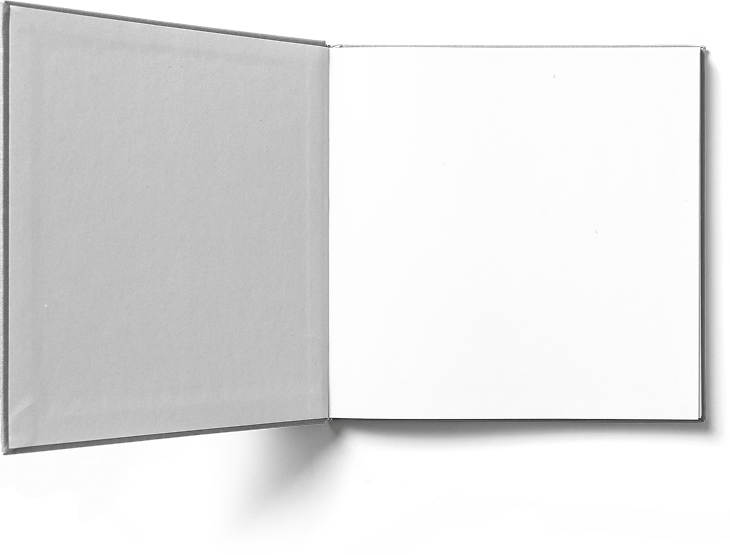
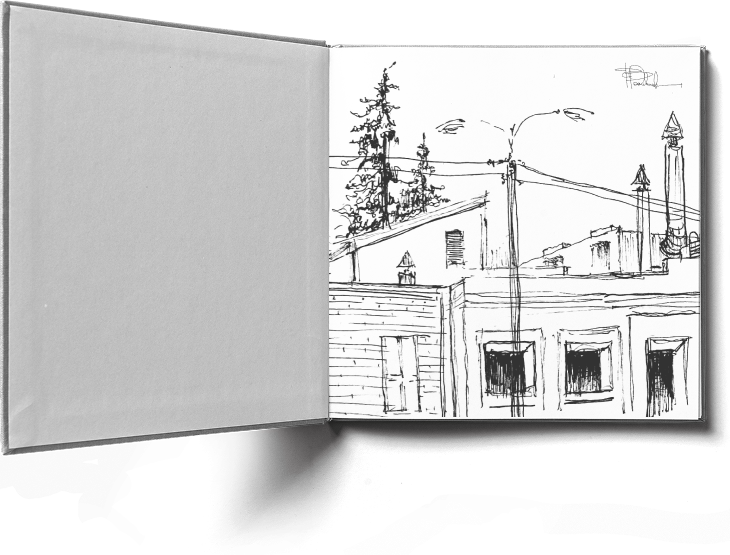
Added non-final mobile layout

diff --git a/public/index.html b/public/index.html
@@ -2,21 +2,24 @@
 <html lang="en">
     <head>
         <meta charset="UTF-8" />
-        <meta name="viewport" content="width=device-width, initial-scale=1.0" />
+        <meta name="viewport" content="width=device-width, initial-scale=1.0, minimum-scale=1.0, maximum-scale=1.0" />
 
         <title>Document</title>
+
+        <!-- Link Swiper's CSS -->
+        <link rel="stylesheet" href="https://cdn.jsdelivr.net/npm/swiper@12/swiper-bundle.min.css" />
 
         <link rel="stylesheet" href="./css/main.css" />
     </head>
 
     <body class="grid grid-rows-[auto_1fr_auto] min-h-screen">
         <header id="Header">
-            <div class="logo-wrapper flex items-center justify-center py-10.5">
+            <section id="Logo" class="logo-wrapper flex items-center justify-center py-10.5">
                 <a href="#!">
-                    <img src="./assets/images/icons/logo.svg" alt="Logo icon" />
+                    <img src="./assets/images/icons/logo_dark.svg" alt="Logo dark icon" />
                 </a>
-            </div>
-            <div class="wrapper border-y border-y-[#DDDDDD]">
+            </section>
+            <section id="Menu" class="wrapper border-y border-y-[#DDDDDD]">
                 <menu class="grid grid-cols-[1fr_auto_auto] gap-x-30 py-15 items-center">
                     <a href="#!">
                         <img src="./assets/images/icons/hamburger_menu.svg" alt="" />
@@ -28,7 +31,7 @@
                         <img src="./assets/images/icons/login.svg" alt="" />
                     </a>
                 </menu>
-            </div>
+            </section>
         </header>
 
         <div id="Page-Content">
@@ -155,12 +158,94 @@
                     </div>
                 </div>
             </section>
+            <section id="Partners" class="bg-[#ebebeb]">
+                <div class="wrapper py-60">
+                    <!-- <div class="max-w-xs flex flex-nowrap gap-x-30">
+                        <div class="w-150 h-80 shrink-0 flex items-center justify-center border border-[#C4C4C4]">
+                            <img src="./assets/images/icons/hahnemuehle.svg" alt="Hahnemuehle logo" class="w-[76.67%]" />
+                        </div>
+                        <div class="w-150 h-80 shrink-0 flex items-center justify-center border border-[#C4C4C4]">
+                            <img src="./assets/images/icons/canson.svg" alt="Canson logo" class="w-[76.67%]" />
+                        </div>
+                        <div class="w-150 h-80 shrink-0 flex items-center justify-center border border-[#C4C4C4]">
+                            <img src="./assets/images/icons/royal_talens.svg" alt="Royal Talents logo" class="w-[76.67%]" />
+                        </div>
+                        <div class="w-150 h-80 shrink-0 flex items-center justify-center border border-[#C4C4C4]">
+                            <img src="./assets/images/icons/fabriano.svg" alt="Fabriano logo" class="w-[76.67%]" />
+                        </div>
+                    </div> -->
+                    <div class="swiper mySwiper min-w-0 max-w-360 h-80">
+                        <div class="swiper-wrapper">
+                            <div class="swiper-slide">
+                                <div class="flex justify-center items-center w-full h-full border border-[#C4C4C4]">
+                                    <img src="./assets/images/icons/hahnemuehle.svg" alt="Hahnemuehle logo" class="w-[76.67%]" />
+                                </div>
+                            </div>
+                            <div class="swiper-slide">
+                                <div class="flex justify-center items-center w-full h-full border border-[#C4C4C4]">
+                                    <img src="./assets/images/icons/canson.svg" alt="Canson logo" class="w-[76.67%]" />
+                                </div>
+                            </div>
+                            <div class="swiper-slide">
+                                <div class="flex justify-center items-center w-full h-full border border-[#C4C4C4]">
+                                    <img src="./assets/images/icons/royal_talens.svg" alt="Royal Talents logo" class="w-[76.67%]" />
+                                </div>
+                            </div>
+                            <div class="swiper-slide">
+                                <div class="flex justify-center items-center w-full h-full border border-[#C4C4C4]">
+                                    <img src="./assets/images/icons/fabriano.svg" alt="Fabriano logo" class="w-[76.67%]" />
+                                </div>
+                            </div>
+                        </div>
+                    </div>
+                </div>
+            </section>
+            <section id="SketchBook">
+                <div class="wrapper py-60">
+                    <img src="./assets/images/sketchbook.png" alt="SketchBook" />
+                    <div class="flex flex-col gap-y-20 pb-30">
+                        <h2 class="section-header text-2xl/none text-[#666666] tracking-normal font-[Roboto]">Simple скетчбук</h2>
+                        <p class="text-base/[170%] text-[#85859B] tracking-normal font-[Roboto]"
+                            >80 листов, твердая обложка, бумага Fabriano 200 г/м2. Подойдет и для графики и для акварели. Для самых смелых творческих
+                            замыслов!</p
+                        >
+                    </div>
+                    <a
+                        class="block max-w-min px-38 py-14.5 border border-[#7875FE] text-[#7875FE] text-lg font-[Roboto] tracking-normal leading-none"
+                        href="#!"
+                    >
+                        Каталог
+                    </a>
+                </div>
+            </section>
         </div>
 
-        <footer id="Footer" class="bg-amber-100">
-            <div class="wrapper"> Footer </div>
+        <footer id="Footer">
+            <section id="Social" class="bg-[#4C5866]">
+                <div class="wrapper py-20 flex flex-col gap-y-20 items-center">
+                    <a href="#!" class="text-white"> <img class="inline" src="./assets/images/icons/logo.svg" alt="Logo icon" /> </a>
+                    <hr class="w-full h-1 text-[#DDDDDD] opacity-20" />
+                    <div class="flex gap-x-32">
+                        <a href="#!"><img src="./assets/images/icons/facebook.svg" alt="Facebook" /></a>
+                        <a href="#!"><img src="./assets/images/icons/twitter.svg" alt="Twitter" /></a>
+                        <a href="#!"><img src="./assets/images/icons/instagram.svg" alt="Instagram" /></a>
+                        <a href="#!"><img src="./assets/images/icons/youtube.svg" alt="YouTube" /></a>
+                    </div>
+                </div>
+            </section>
+            <section id="Copyright" class="bg-[#EBEBEB]">
+                <div class="wrapper py-3 flex justify-center">
+                    <a href="#!">
+                        <img src="./assets/images/icons/copyright.svg" alt="Copyright icon" />
+                    </a>
+                </div>
+            </section>
         </footer>
 
+        <!-- Swiper JS -->
+        <script src="https://cdn.jsdelivr.net/npm/swiper@12/swiper-bundle.min.js"></script>
+
+        <!-- Main JS --->
         <script src="./js/main.js"></script>
     </body>
 </html>

diff --git a/public/css/main.css b/public/css/main.css
@@ -9,9 +9,10 @@
     --font-mono: ui-monospace, SFMono-Regular, Menlo, Monaco, Consolas, "Liberation Mono",
       "Courier New", monospace;
     --color-amber-100: oklch(96.2% 0.059 95.617);
+    --color-amber-200: oklch(92.4% 0.12 95.746);
+    --color-white: #fff;
     --spacing: 1px;
-    --text-xs: 0.75rem;
-    --text-xs--line-height: calc(1 / 0.75);
+    --container-xs: 20rem;
     --text-sm: 0.875rem;
     --text-sm--line-height: calc(1.25 / 0.875);
     --text-base: 1rem;
@@ -194,17 +195,47 @@
   .grid {
     display: grid;
   }
-  .inline-block {
-    display: inline-block;
+  .inline {
+    display: inline;
   }
   .table {
     display: table;
   }
+  .aspect-29\/18 {
+    aspect-ratio: 29/18;
+  }
   .aspect-290\/180 {
     aspect-ratio: 290/180;
   }
+  .h-1 {
+    height: calc(var(--spacing) * 1);
+  }
+  .h-80 {
+    height: calc(var(--spacing) * 80);
+  }
+  .h-auto {
+    height: auto;
+  }
+  .h-full {
+    height: 100%;
+  }
   .min-h-screen {
     min-height: 100vh;
+  }
+  .w-150 {
+    width: calc(var(--spacing) * 150);
+  }
+  .w-180 {
+    width: calc(var(--spacing) * 180);
+  }
+  .w-360 {
+    width: calc(var(--spacing) * 360);
+  }
+  .w-\[76\.67\%\] {
+    width: 76.67%;
+  }
+  .w-fit {
+    width: fit-content;
   }
   .w-full {
     width: 100%;
@@ -212,8 +243,32 @@
   .max-w-220 {
     max-width: calc(var(--spacing) * 220);
   }
+  .max-w-360 {
+    max-width: calc(var(--spacing) * 360);
+  }
+  .max-w-full {
+    max-width: 100%;
+  }
   .max-w-min {
     max-width: min-content;
+  }
+  .max-w-none {
+    max-width: none;
+  }
+  .max-w-xs {
+    max-width: var(--container-xs);
+  }
+  .min-w-0 {
+    min-width: calc(var(--spacing) * 0);
+  }
+  .min-w-\[0\%\] {
+    min-width: 0%;
+  }
+  .flex-shrink {
+    flex-shrink: 1;
+  }
+  .shrink-0 {
+    flex-shrink: 0;
   }
   .border-collapse {
     border-collapse: collapse;
@@ -236,8 +291,11 @@
   .flex-col {
     flex-direction: column;
   }
-  .items-baseline {
-    align-items: baseline;
+  .flex-nowrap {
+    flex-wrap: nowrap;
+  }
+  .flex-wrap {
+    flex-wrap: wrap;
   }
   .items-center {
     align-items: center;
@@ -256,6 +314,9 @@
   }
   .gap-x-30 {
     column-gap: calc(var(--spacing) * 30);
+  }
+  .gap-x-32 {
+    column-gap: calc(var(--spacing) * 32);
   }
   .gap-y-4 {
     row-gap: calc(var(--spacing) * 4);
@@ -278,6 +339,12 @@
   .gap-y-60 {
     row-gap: calc(var(--spacing) * 60);
   }
+  .overflow-hidden {
+    overflow: hidden;
+  }
+  .overflow-x-hidden {
+    overflow-x: hidden;
+  }
   .border {
     border-style: var(--tw-border-style);
     border-width: 1px;
@@ -293,11 +360,29 @@
   .border-\[\#7875FE\] {
     border-color: #7875FE;
   }
+  .border-\[\#C4C4C4\] {
+    border-color: #C4C4C4;
+  }
   .border-y-\[\#DDDDDD\] {
     border-block-color: #DDDDDD;
   }
   .border-t-\[\#C0C0C0\] {
     border-top-color: #C0C0C0;
+  }
+  .bg-\[\#4C5866\] {
+    background-color: #4C5866;
+  }
+  .bg-\[\#BCBCBC\] {
+    background-color: #BCBCBC;
+  }
+  .bg-\[\#DDDDDD\] {
+    background-color: #DDDDDD;
+  }
+  .bg-\[\#EBEBEB\] {
+    background-color: #EBEBEB;
+  }
+  .bg-\[\#\] {
+    background-color: #;
   }
   .bg-\[\#ebebeb\] {
     background-color: #ebebeb;
@@ -305,20 +390,20 @@
   .bg-amber-100 {
     background-color: var(--color-amber-100);
   }
-  .object-contain {
-    object-fit: contain;
+  .bg-amber-200 {
+    background-color: var(--color-amber-200);
   }
   .object-cover {
     object-fit: cover;
-  }
-  .object-bottom {
-    object-position: bottom;
   }
   .object-top {
     object-position: top;
   }
   .px-38 {
     padding-inline: calc(var(--spacing) * 38);
+  }
+  .py-3 {
+    padding-block: calc(var(--spacing) * 3);
   }
   .py-10 {
     padding-block: calc(var(--spacing) * 10);
@@ -403,9 +488,9 @@
     font-size: var(--text-xl);
     line-height: var(--tw-leading, var(--text-xl--line-height));
   }
-  .text-xs {
-    font-size: var(--text-xs);
-    line-height: var(--tw-leading, var(--text-xs--line-height));
+  .leading-0 {
+    --tw-leading: calc(var(--spacing) * 0);
+    line-height: calc(var(--spacing) * 0);
   }
   .leading-none {
     --tw-leading: 1;
@@ -434,8 +519,20 @@
   .text-\[\#B5B5BD\] {
     color: #B5B5BD;
   }
+  .text-\[\#DDDDDD\] {
+    color: #DDDDDD;
+  }
+  .text-\[\#\] {
+    color: #;
+  }
+  .text-white {
+    color: var(--color-white);
+  }
   .underline {
     text-decoration-line: underline;
+  }
+  .opacity-20 {
+    opacity: 20%;
   }
   .outline {
     outline-style: var(--tw-outline-style);

diff --git a/public/js/main.js b/public/js/main.js
@@ -1,0 +1,6 @@
+var swiper = new Swiper('.mySwiper', {
+    watchSlidesProgress: true,
+    slidesPerView: 2,
+    spaceBetween: 30,
+    freeMode: true
+});
